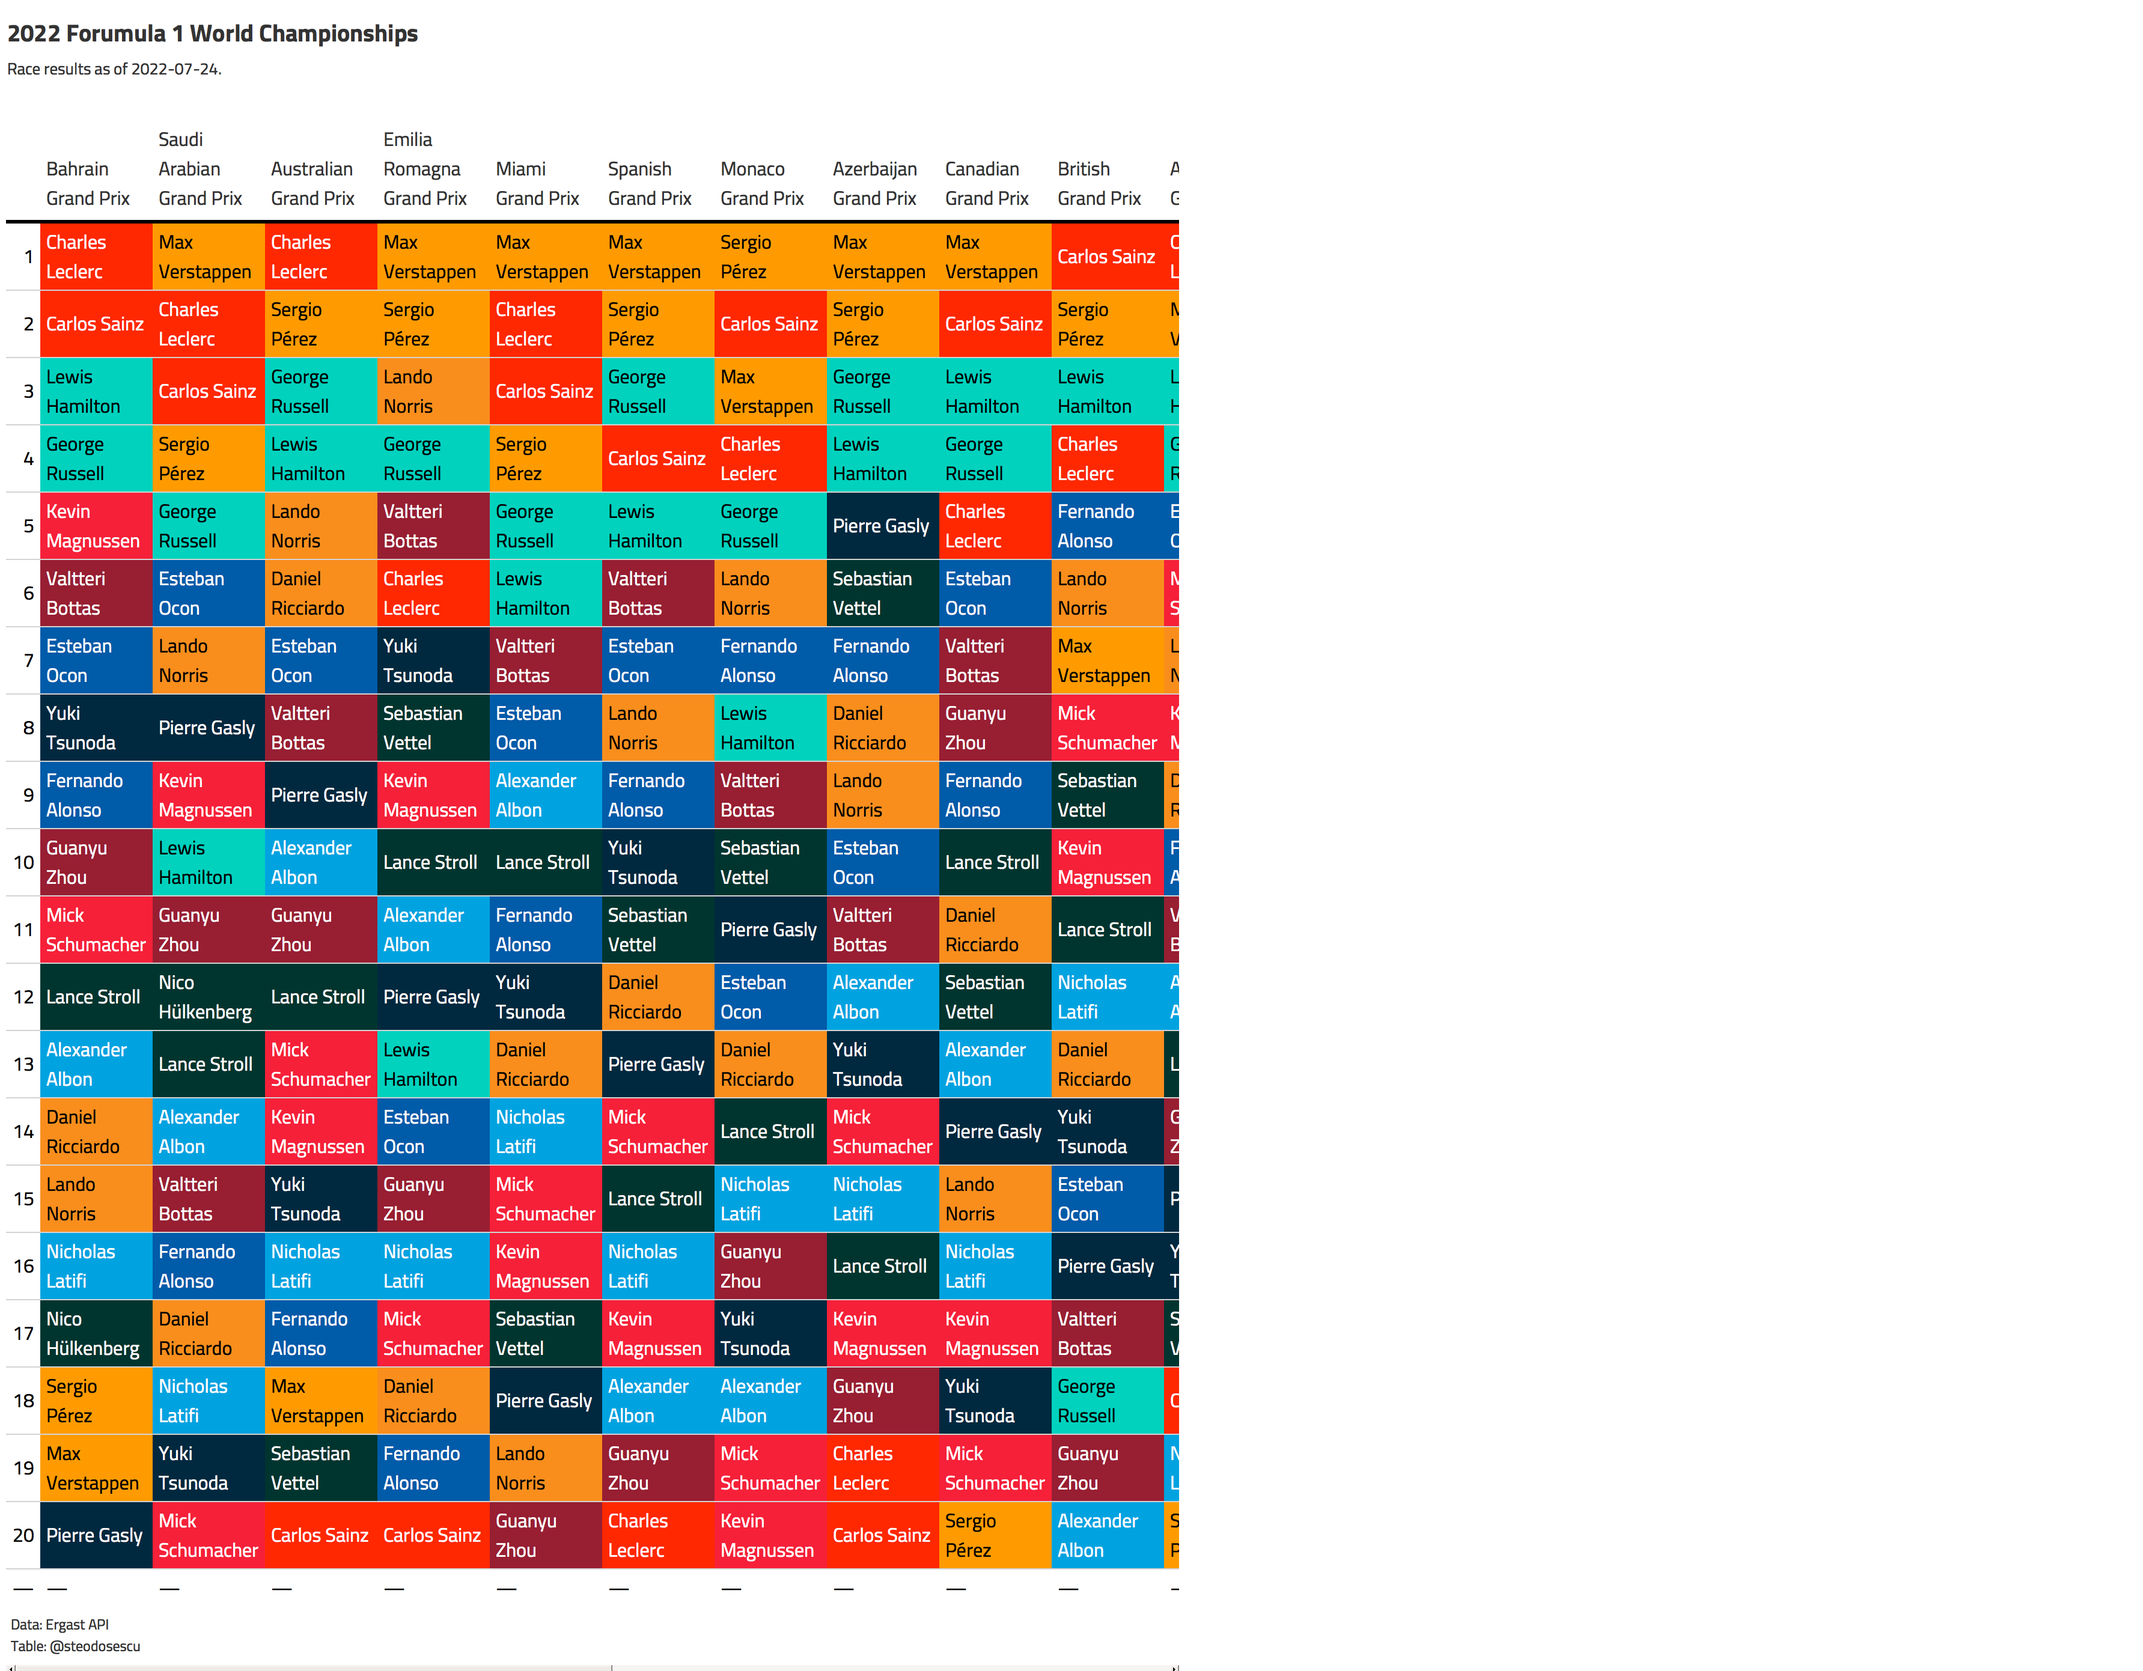
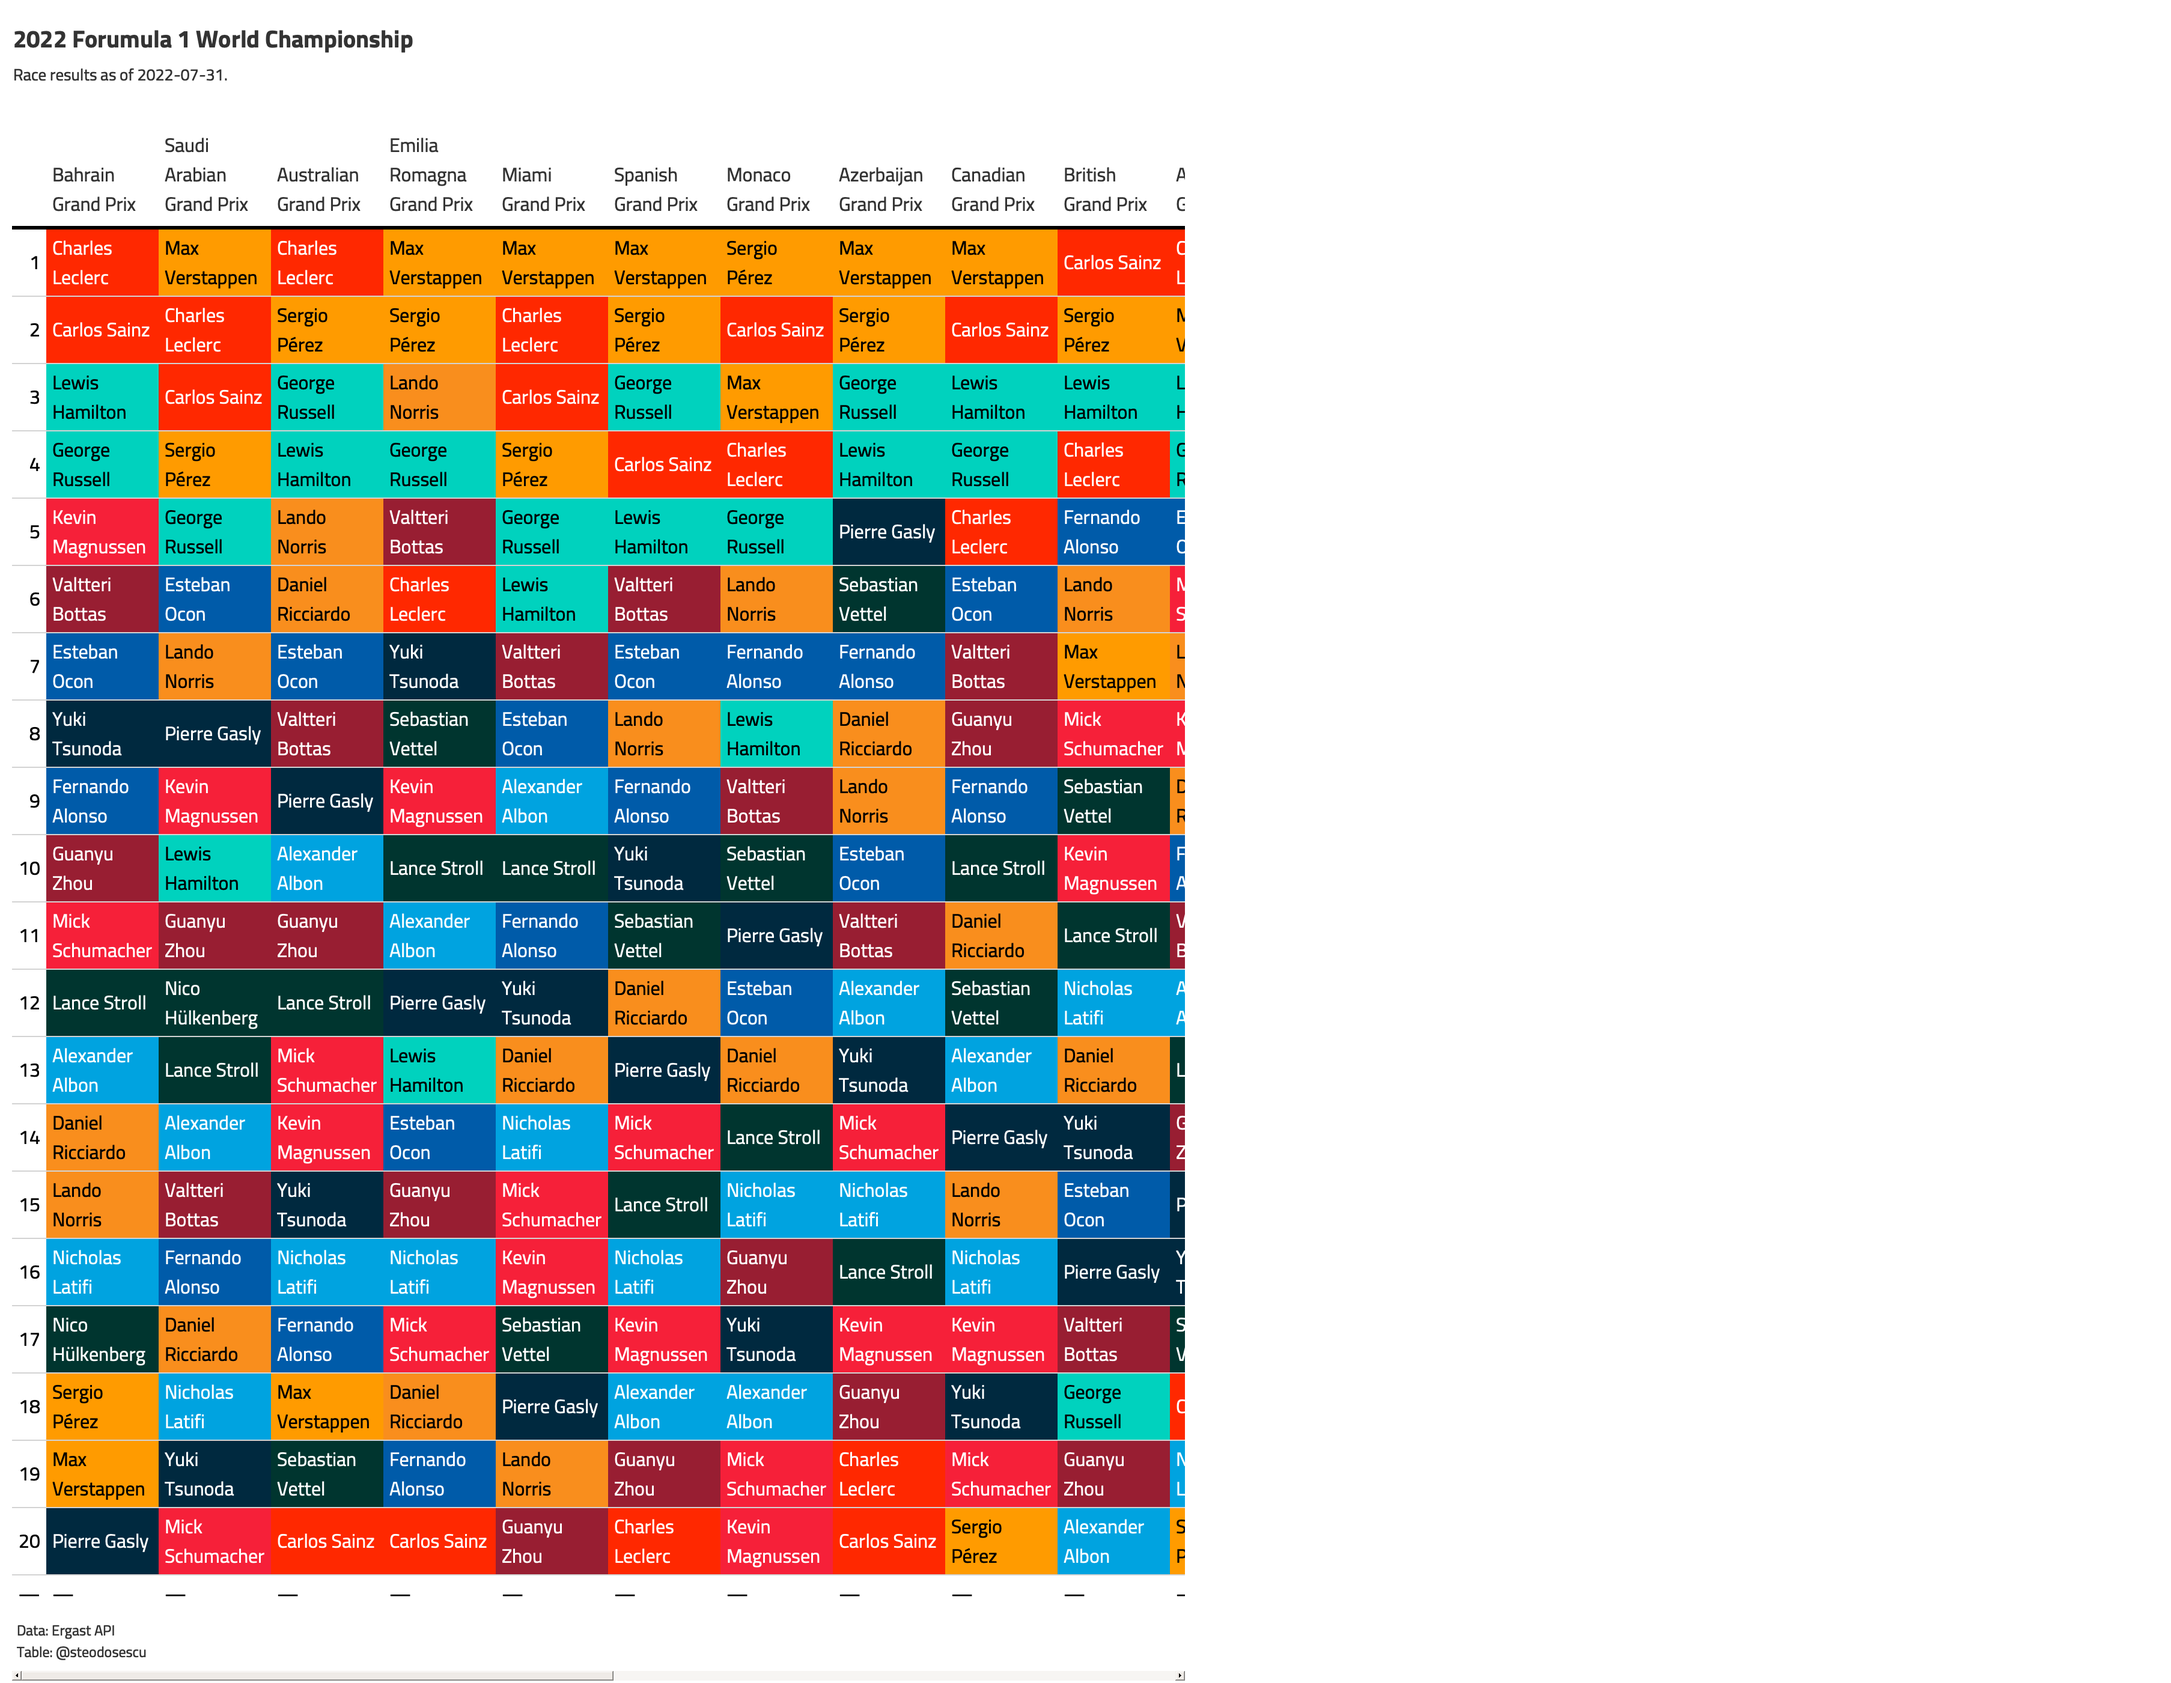
Update Formula 1 misspelling in table

Changed region(s): [[0.0, 0.0, 0.5603, 0.9896]]

diff --git a/Season-Trends.html b/Season-Trends.html
@@ -306,13 +306,13 @@ $(document).ready(function () {
 <h3>Drivers Trends</h3>
 <p><img src="Season-Trends_files/figure-html/unnamed-chunk-4-1.png" width="960" /></p>
 <p>Race Results Table</p>
-<div id="hsyobgyudr" style="overflow-x:auto;overflow-y:auto;width:auto;height:auto;">
+<div id="zarjqvqrsn" style="overflow-x:auto;overflow-y:auto;width:auto;height:auto;">
 <style>@import url("https://fonts.googleapis.com/css2?family=Titillium+Web:ital,wght@0,100;0,200;0,300;0,400;0,500;0,600;0,700;0,800;0,900;1,100;1,200;1,300;1,400;1,500;1,600;1,700;1,800;1,900&display=swap");
 html {
   font-family: 'Titillium Web', -apple-system, BlinkMacSystemFont, 'Segoe UI', Roboto, Oxygen, Ubuntu, Cantarell, 'Helvetica Neue', 'Fira Sans', 'Droid Sans', Arial, sans-serif;
 }
 
-#hsyobgyudr .gt_table {
+#zarjqvqrsn .gt_table {
   display: table;
   border-collapse: collapse;
   margin-left: auto;
@@ -337,7 +337,7 @@ html {
   border-left-color: #D3D3D3;
 }
 
-#hsyobgyudr .gt_heading {
+#zarjqvqrsn .gt_heading {
   background-color: #FFFFFF;
   text-align: left;
   border-bottom-color: #FFFFFF;
@@ -349,7 +349,7 @@ html {
   border-right-color: #D3D3D3;
 }
 
-#hsyobgyudr .gt_title {
+#zarjqvqrsn .gt_title {
   color: #333333;
   font-size: 125%;
   font-weight: initial;
@@ -359,7 +359,7 @@ html {
   border-bottom-width: 0;
 }
 
-#hsyobgyudr .gt_subtitle {
+#zarjqvqrsn .gt_subtitle {
   color: #333333;
   font-size: 85%;
   font-weight: initial;
@@ -369,13 +369,13 @@ html {
   border-top-width: 0;
 }
 
-#hsyobgyudr .gt_bottom_border {
+#zarjqvqrsn .gt_bottom_border {
   border-bottom-style: solid;
   border-bottom-width: 2px;
   border-bottom-color: #D3D3D3;
 }
 
-#hsyobgyudr .gt_col_headings {
+#zarjqvqrsn .gt_col_headings {
   border-top-style: solid;
   border-top-width: 3px;
   border-top-color: transparent;
@@ -390,7 +390,7 @@ html {
   border-right-color: #D3D3D3;
 }
 
-#hsyobgyudr .gt_col_heading {
+#zarjqvqrsn .gt_col_heading {
   color: #333333;
   background-color: white;
   font-size: 100%;
@@ -410,7 +410,7 @@ html {
   overflow-x: hidden;
 }
 
-#hsyobgyudr .gt_column_spanner_outer {
+#zarjqvqrsn .gt_column_spanner_outer {
   color: #333333;
   background-color: white;
   font-size: 100%;
@@ -422,15 +422,15 @@ html {
   padding-right: 4px;
 }
 
-#hsyobgyudr .gt_column_spanner_outer:first-child {
+#zarjqvqrsn .gt_column_spanner_outer:first-child {
   padding-left: 0;
 }
 
-#hsyobgyudr .gt_column_spanner_outer:last-child {
+#zarjqvqrsn .gt_column_spanner_outer:last-child {
   padding-right: 0;
 }
 
-#hsyobgyudr .gt_column_spanner {
+#zarjqvqrsn .gt_column_spanner {
   border-bottom-style: solid;
   border-bottom-width: 3px;
   border-bottom-color: black;
@@ -442,7 +442,7 @@ html {
   width: 100%;
 }
 
-#hsyobgyudr .gt_group_heading {
+#zarjqvqrsn .gt_group_heading {
   padding: 8px;
   color: #333333;
   background-color: #FFFFFF;
@@ -464,7 +464,7 @@ html {
   vertical-align: middle;
 }
 
-#hsyobgyudr .gt_empty_group_heading {
+#zarjqvqrsn .gt_empty_group_heading {
   padding: 0.5px;
   color: #333333;
   background-color: #FFFFFF;
@@ -479,15 +479,15 @@ html {
   vertical-align: middle;
 }
 
-#hsyobgyudr .gt_from_md > :first-child {
+#zarjqvqrsn .gt_from_md > :first-child {
   margin-top: 0;
 }
 
-#hsyobgyudr .gt_from_md > :last-child {
+#zarjqvqrsn .gt_from_md > :last-child {
   margin-bottom: 0;
 }
 
-#hsyobgyudr .gt_row {
+#zarjqvqrsn .gt_row {
   padding-top: 3px;
   padding-bottom: 3px;
   padding-left: 5px;
@@ -506,7 +506,7 @@ html {
   overflow-x: hidden;
 }
 
-#hsyobgyudr .gt_stub {
+#zarjqvqrsn .gt_stub {
   color: #333333;
   background-color: #FFFFFF;
   font-size: 100%;
@@ -518,7 +518,7 @@ html {
   padding-left: 12px;
 }
 
-#hsyobgyudr .gt_summary_row {
+#zarjqvqrsn .gt_summary_row {
   color: #333333;
   background-color: #FFFFFF;
   text-transform: inherit;
@@ -528,7 +528,7 @@ html {
   padding-right: 5px;
 }
 
-#hsyobgyudr .gt_first_summary_row {
+#zarjqvqrsn .gt_first_summary_row {
   padding-top: 8px;
   padding-bottom: 8px;
   padding-left: 5px;
@@ -538,7 +538,7 @@ html {
   border-top-color: #D3D3D3;
 }
 
-#hsyobgyudr .gt_grand_summary_row {
+#zarjqvqrsn .gt_grand_summary_row {
   color: #333333;
   background-color: #FFFFFF;
   text-transform: inherit;
@@ -548,7 +548,7 @@ html {
   padding-right: 5px;
 }
 
-#hsyobgyudr .gt_first_grand_summary_row {
+#zarjqvqrsn .gt_first_grand_summary_row {
   padding-top: 8px;
   padding-bottom: 8px;
   padding-left: 5px;
@@ -558,11 +558,11 @@ html {
   border-top-color: #D3D3D3;
 }
 
-#hsyobgyudr .gt_striped {
+#zarjqvqrsn .gt_striped {
   background-color: rgba(128, 128, 128, 0.05);
 }
 
-#hsyobgyudr .gt_table_body {
+#zarjqvqrsn .gt_table_body {
   border-top-style: solid;
   border-top-width: 2px;
   border-top-color: #D3D3D3;
@@ -571,7 +571,7 @@ html {
   border-bottom-color: #D3D3D3;
 }
 
-#hsyobgyudr .gt_footnotes {
+#zarjqvqrsn .gt_footnotes {
   color: #333333;
   background-color: #FFFFFF;
   border-bottom-style: none;
@@ -585,13 +585,13 @@ html {
   border-right-color: #D3D3D3;
 }
 
-#hsyobgyudr .gt_footnote {
+#zarjqvqrsn .gt_footnote {
   margin: 0px;
   font-size: 90%;
   padding: 4px;
 }
 
-#hsyobgyudr .gt_sourcenotes {
+#zarjqvqrsn .gt_sourcenotes {
   color: #333333;
   background-color: #FFFFFF;
   border-bottom-style: none;
@@ -605,41 +605,41 @@ html {
   border-right-color: #D3D3D3;
 }
 
-#hsyobgyudr .gt_sourcenote {
+#zarjqvqrsn .gt_sourcenote {
   font-size: 12px;
   padding: 4px;
 }
 
-#hsyobgyudr .gt_left {
+#zarjqvqrsn .gt_left {
   text-align: left;
 }
 
-#hsyobgyudr .gt_center {
+#zarjqvqrsn .gt_center {
   text-align: center;
 }
 
-#hsyobgyudr .gt_right {
+#zarjqvqrsn .gt_right {
   text-align: right;
   font-variant-numeric: tabular-nums;
 }
 
-#hsyobgyudr .gt_font_normal {
+#zarjqvqrsn .gt_font_normal {
   font-weight: normal;
 }
 
-#hsyobgyudr .gt_font_bold {
+#zarjqvqrsn .gt_font_bold {
   font-weight: bold;
 }
 
-#hsyobgyudr .gt_font_italic {
+#zarjqvqrsn .gt_font_italic {
   font-style: italic;
 }
 
-#hsyobgyudr .gt_super {
+#zarjqvqrsn .gt_super {
   font-size: 65%;
 }
 
-#hsyobgyudr .gt_footnote_marks {
+#zarjqvqrsn .gt_footnote_marks {
   font-style: italic;
   font-weight: normal;
   font-size: 65%;
@@ -648,7 +648,7 @@ html {
 <table class="gt_table">
   <thead class="gt_header">
     <tr>
-      <th colspan="14" class="gt_heading gt_title gt_font_normal" style><strong>2022 Forumula 1 World Championships</strong></th>
+      <th colspan="14" class="gt_heading gt_title gt_font_normal" style><strong>2022 Formula 1 World Championships</strong></th>
     </tr>
     <tr>
       <th colspan="14" class="gt_heading gt_subtitle gt_font_normal gt_bottom_border" style>Race results as of 2022-07-31.</th>
